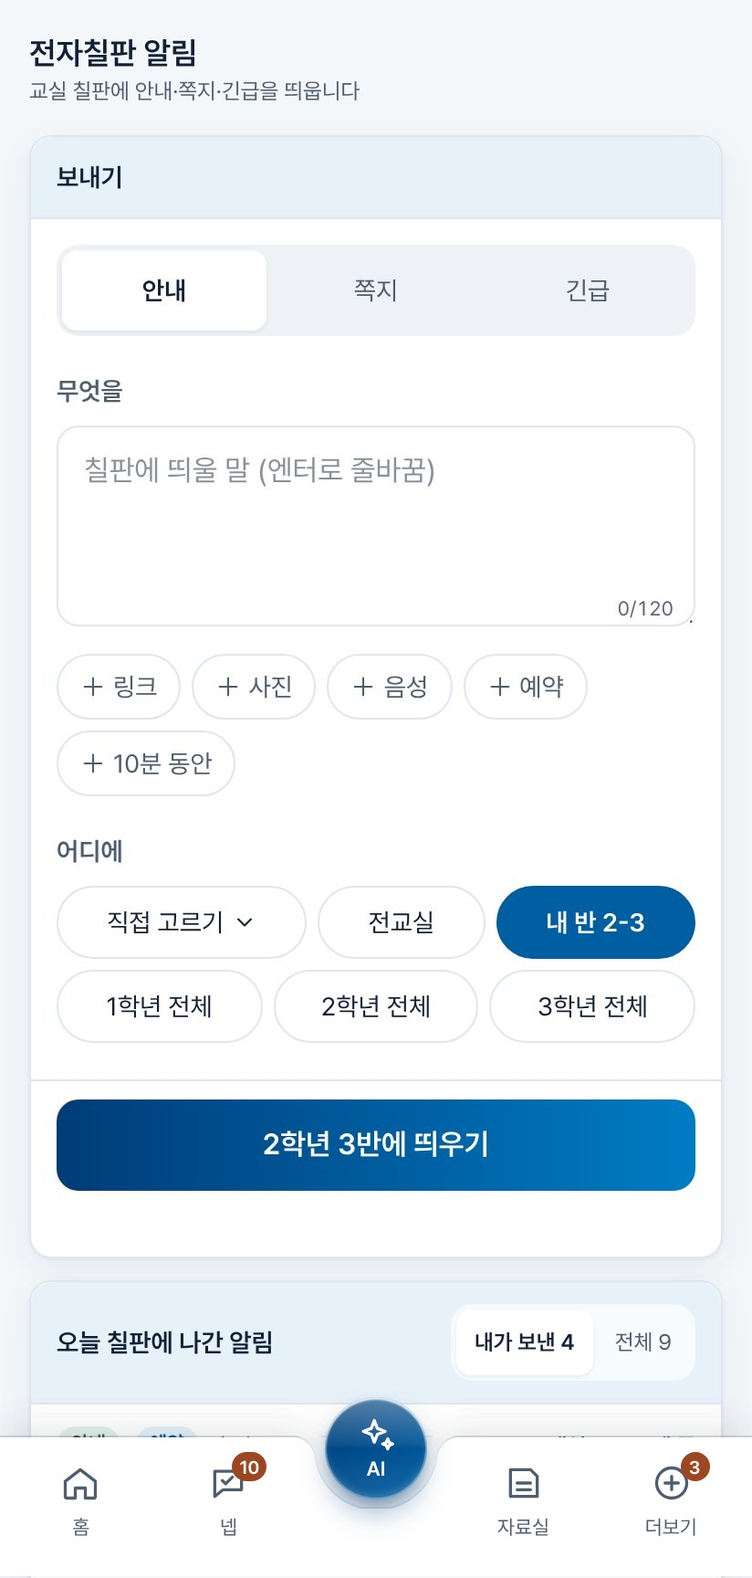
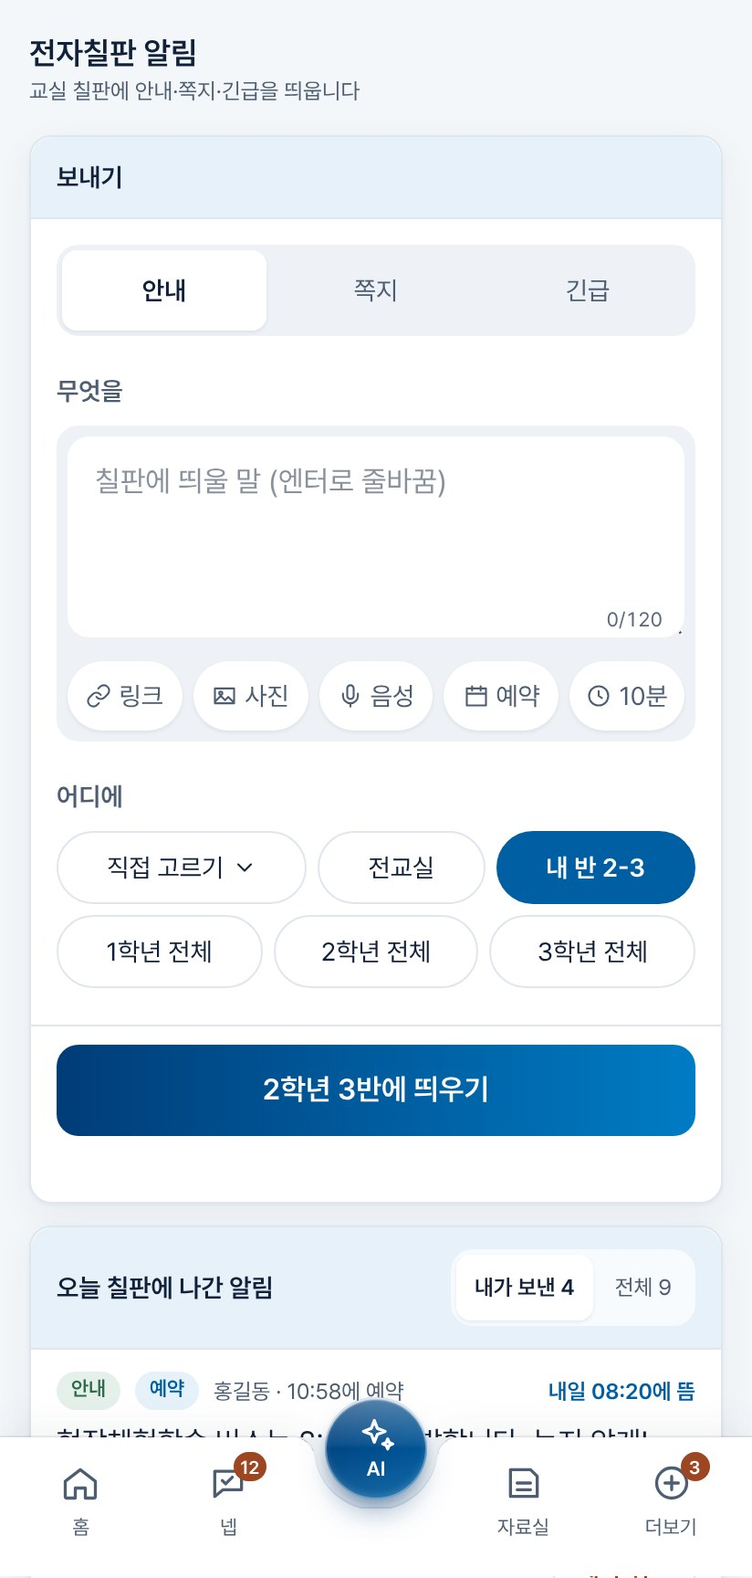
전자칠판 보내기 새 화면(10/31): 「무엇을」 한 줄 단추·예약 오늘·내일
- 칠판 보내기 그림 9장을 새 화면으로 다시 찍음(링크·사진·음성·예약·10분 한 줄)
- 예약 칸 그림(board-schedule) 새로: 오늘·내일 스위치 + 시각, 「예약 없이 지금 띄우기」
- 실습 13·미니 실습 1에 예약 단계, AI로 하면(칠판)의 메뉴 쪽 그림을 예약 칸으로
- 「+ 사진」「+ 음성」 → 「사진」「음성」, NEW 목록과 요즘 새 기능 설명에 10/31

Claude-Session: https://claude.ai/code/session_01PnRkvZMXyWQ3PDuECRmpn5

diff --git a/img/rects.js b/img/rects.js
@@ -1,3 +1,3 @@
 /* 화면마다 동그라미 칠 자리(412×864 기준, 찍을 때 잰 값) — R(화면, 키) */
-window.SHOT_RECTS = {"ai-board": {"button": [31, 446, 162, 40], "card": [16, 286, 380, 213], "head": [31, 297, 177, 20], "question": [73, 68, 323, 98]}, "ai-deep": {"answer": [16, 202, 323, 464], "feedback": [20, 672, 41, 36], "question": [73, 68, 323, 124]}, "ai-deep-ready": {"deep": [72, 588, 211, 34], "file": [16, 499, 380, 38], "input": [72, 634, 268, 72], "plus": [16, 658, 48, 48], "send": [348, 658, 48, 48]}, "ai-form": {"answer": [16, 124, 323, 308], "feedback": [20, 438, 41, 36], "links": [267, 372, 37, 19], "question": [147, 68, 249, 46]}, "ai-home": {"chip_first": [16, 202, 380, 46], "chips": [16, 201, 380, 236], "clear": [333, 12, 71, 44], "greet": [16, 100, 380, 30], "head": [16, 16, 74, 36], "hello": [16, 134, 380, 39], "input": [72, 658, 268, 48], "mic": [348, 658, 48, 48], "notice": [16, 718, 380, 33], "plus": [16, 658, 48, 48], "tab_ai": [166, 792, 81, 44]}, "ai-lesson": {"body": [31, 501, 350, 482], "card": [16, 260, 380, 834], "head": [17, 261, 378, 41], "question": [73, 68, 323, 72]}, "ai-lesson-2": {"body": [31, 48, 350, 482], "button": [31, 560, 111, 40]}, "ai-letter": {"body": [31, 620, 350, 274], "card": [16, 286, 380, 671], "head": [17, 287, 378, 41], "question": [73, 68, 323, 72]}, "ai-letter-2": {"body": [31, 276, 350, 274], "button": [31, 560, 151, 40], "feedback": [20, 619, 41, 36]}, "ai-library": {"answer": [16, 124, 323, 438], "feedback": [20, 568, 41, 36], "links": [65, 450, 37, 19], "question": [133, 68, 263, 46]}, "ai-lost": {"button": [31, 586, 84, 40], "card": [16, 312, 380, 327], "photo": [31, 366, 96, 96], "question": [73, 68, 323, 124]}, "ai-nep": {"button": [31, 726, 84, 40], "card": [16, 286, 380, 493], "edit": [127, 738, 89, 16], "people": [31, 589, 350, 84], "question": [73, 68, 323, 72]}, "ai-number": {"button": [31, 449, 96, 40], "card": [16, 260, 380, 242], "question": [81, 68, 315, 46]}, "ai-parent": {"answer": [16, 150, 323, 386], "feedback": [20, 542, 41, 36], "question": [73, 68, 323, 72]}, "ai-plus": {"attach": [22, 523, 284, 60], "close": [16, 658, 48, 48], "deep": [22, 584, 284, 60], "menu": [16, 517, 296, 133]}, "ai-progress": {"button": [31, 504, 108, 40], "card": [16, 286, 380, 271], "question": [73, 68, 323, 72]}, "ai-recruit": {"button": [31, 546, 68, 40], "card": [16, 312, 380, 287], "question": [73, 68, 323, 72], "reason": [31, 480, 350, 35]}, "ai-repair": {"button": [31, 576, 96, 40], "card": [16, 260, 380, 369], "head": [17, 261, 378, 41], "question": [73, 68, 323, 72]}, "ai-sign": {"button": [31, 705, 175, 40], "card": [16, 286, 380, 472], "people": [31, 544, 350, 151], "question": [73, 68, 323, 72]}, "ai-swap": {"calendar": [31, 364, 75, 14], "card": [16, 312, 380, 703], "question": [73, 68, 323, 72]}, "ai-typed": {"input": [72, 658, 268, 48], "plus": [16, 658, 48, 48], "send": [348, 658, 48, 48]}, "ai-week": {"answer": [16, 124, 323, 308], "feedback": [20, 438, 41, 36], "question": [214, 68, 182, 46]}, "alerts": {}, "alerts-done": {"clear": [316, 379, 80, 44], "summary": [16, 331, 380, 44]}, "board-alert": {"all": [174, 569, 92, 40], "fire": [150, 233, 113, 56], "kind": [266, 137, 112, 44], "offline": [31, 679, 350, 16], "presets": [31, 233, 350, 118], "submit": [31, 701, 350, 50]}, "board-alert-confirm": {"cancel": [16, 804, 136, 44], "go": [160, 804, 236, 44], "sheet": [0, 0, 412, 864], "text": [16, 720, 380, 72], "where": [16, 668, 380, 40]}, "board-grades": {"g1": [31, 531, 113, 40], "g2": [150, 531, 113, 40], "offline": [31, 602, 350, 16], "submit": [31, 624, 350, 50]}, "board-memo": {"body": [31, 233, 350, 110], "kind": [150, 137, 112, 44], "note": [31, 358, 350, 32], "submit": [31, 600, 350, 50]}, "board-photo": {"body": [31, 233, 350, 110], "photoChip": [105, 358, 90, 36], "submit": [31, 701, 350, 50], "thumb": [43, 456, 103, 80]}, "board-pick": {"all": [16, 535, 380, 44], "done": [16, 798, 380, 50], "grid": [16, 591, 380, 94], "legend": [16, 697, 380, 32], "off": [170, 641, 71, 44], "tabs": [16, 481, 380, 42]}, "board-send": {"body": [31, 233, 350, 110], "kinds": [31, 134, 350, 50], "mine": [272, 485, 109, 40], "options": [31, 358, 350, 78], "submit": [31, 602, 350, 50], "what": [31, 204, 350, 21], "where": [31, 456, 350, 115]}, "board-sent": {"done": [31, 528, 90, 22], "end": [31, 408, 50, 36], "live": [82, 381, 34, 16], "liveChip": [31, 378, 96, 22], "over": [31, 677, 88, 22], "reserve": [300, 129, 81, 16], "tabs": [247, 59, 134, 42], "unshown": [126, 733, 100, 22], "waitChip": [31, 185, 69, 22]}, "board-voice-rec": {"status": [43, 336, 326, 92], "stop": [287, 388, 82, 40]}, "calendar": {"grid": [16, 120, 380, 443], "seg": [206, 61, 187, 44], "today": [196, 391, 20, 20]}, "exam-card": {"ends": [31, 178, 350, 161], "head": [31, 87, 152, 20], "slots": [31, 134, 350, 32], "stats": [31, 351, 350, 73]}, "exam-card-pad": {"legend": [31, 150, 350, 16], "n24": [183, 307, 47, 40], "n7": [334, 195, 47, 40], "n9": [82, 239, 47, 40], "names": [31, 403, 350, 113], "stats": [31, 41, 350, 73]}, "exam-card-save": {"names": [31, 292, 350, 113], "note": [31, 470, 350, 48], "save": [31, 550, 350, 50]}, "forms": {"trip": [17, 110, 378, 56]}, "found": {"head": [16, 24, 380, 71]}, "home": {"bell": [360, 16, 44, 44], "changed": [276, 550, 45, 71], "gear": [356, 729, 52, 44], "hero": [16, 96, 380, 61], "hint": [16, 346, 380, 44], "nep": [16, 422, 320, 54], "now": [129, 550, 45, 71], "peek": [16, 168, 380, 120], "pg": [245, 489, 40, 44], "pill": [282, 177, 101, 28], "rail": [352, 406, 60, 380], "sc": [356, 410, 52, 62], "scAll": [356, 538, 52, 62], "tabAi": [166, 792, 81, 44], "tabMore": [327, 792, 81, 61], "tabNep": [85, 792, 81, 61], "tileLesson": [16, 300, 186, 38], "tileSched": [210, 300, 186, 38], "tiles": [16, 300, 380, 38], "tt": [289, 489, 40, 44]}, "home-3": {"cal": [289, 430, 40, 44], "gear": [356, 729, 52, 44], "meal": [31, 291, 24, 20], "rail": [352, 0, 60, 786], "upcoming": [31, 442, 76, 20], "weekly": [245, 430, 40, 44]}, "home-sheet": {"count": [16, 819, 69, 18], "done": [332, 808, 64, 40], "head": [16, 262, 380, 24], "pick": [16, 314, 380, 484], "sheet": [0, 0, 412, 864]}, "home-sports": {"card": [16, 16, 380, 493], "link": [16, 16, 380, 493]}, "library": {"chips": [72, 214, 52, 39], "pinned": [16, 282, 380, 95], "search": [52, 169, 331, 23], "write": [310, 720, 86, 48]}, "library-new": {"kind": [206, 440, 172, 36], "section": [31, 120, 350, 48], "submit": [31, 624, 350, 50], "title": [31, 210, 350, 48]}, "library-post": {"download": [31, 211, 350, 44]}, "library-search": {"result": [16, 282, 380, 95], "search": [52, 169, 331, 23]}, "login": {"go": [58, 554, 296, 50], "name": [58, 299, 296, 48], "pw": [58, 467, 296, 48]}, "lost-date": {"head": [31, 91, 53, 28], "head2": [31, 207, 51, 28], "scene": [16, 76, 380, 680]}, "lost-found": {"add": [126, 679, 161, 54], "box": [16, 76, 380, 680], "item": [184, 368, 81, 81], "note": [16, 756, 380, 43], "returned": [286, 16, 110, 44], "student": [251, 767, 50, 13]}, "lost-found-2": {"add": [126, 643, 161, 54], "note": [16, 720, 380, 43], "student": [251, 731, 50, 13]}, "lost-found-add": {"photo": [16, 154, 380, 212], "place": [16, 558, 380, 73], "submit": [149, 863, 247, 44]}, "lost-found-detail": {"back": [16, 804, 380, 44], "info": [16, 572, 380, 133]}, "lost-kind": {"head": [31, 91, 58, 28], "scene": [16, 76, 380, 680]}, "lost-tilt": {"btn": [280, 89, 103, 34], "scene": [16, 76, 380, 680]}, "meals": {}, "more-2": {"lost": [17, 228, 378, 56], "noti": [17, 524, 378, 56], "sign": [17, 376, 378, 56], "signature": [17, 580, 378, 56]}, "more-tools": {"board": [17, 383, 378, 56], "lost": [17, 643, 378, 56], "tools": [17, 439, 378, 56]}, "more-top": {"avatar": [107, 128, 203, 17]}, "nep-add": {"add": [16, 448, 253, 44]}, "nep-big": {"sheet": [0, 0, 412, 864]}, "nep-board": {"meter": [16, 173, 380, 76], "pending": [16, 261, 380, 21], "remind": [16, 328, 380, 44]}, "nep-board-replies": {"replies": [17, 509, 378, 37]}, "nep-board-submit": {"downloadAll": [275, 420, 121, 44]}, "nep-cal": {"events": [35, 292, 55, 20], "post": [35, 438, 342, 44]}, "nep-compose": {"plus": [16, 808, 44, 44], "send": [312, 808, 84, 44], "text": [16, 85, 380, 144], "to": [53, 52, 49, 25]}, "nep-compose-due": {"chip": [16, 237, 152, 29], "due": [43, 281, 261, 36], "send": [312, 808, 84, 44]}, "nep-event-hide": {"hide": [239, 385, 95, 44]}, "nep-fwd": {"card": [12, 276, 341, 358], "fwd": [307, 281, 39, 36]}, "nep-fwd-org": {"banner": [30, 148, 316, 40], "bar": [284, 702, 104, 41]}, "nep-inbox": {"chip": [341, 457, 51, 21], "me": [0, 128, 412, 68], "recruit": [0, 264, 412, 68], "row": [0, 196, 412, 68], "tabs": [16, 76, 380, 48], "unread": [372, 230, 20, 20]}, "nep-inbox-2": {"over": [332, 725, 60, 21], "park": [0, 623, 412, 68], "parkChip": [332, 657, 60, 21]}, "nep-link": {"ack": [27, 315, 60, 44], "card": [12, 118, 341, 254], "link": [27, 245, 311, 60]}, "nep-me": {"card": [12, 118, 341, 360], "events": [27, 281, 55, 20], "head": [0, 0, 412, 61]}, "nep-me-due": {"chip": [12, 649, 152, 29], "input": [64, 685, 260, 68], "last": [12, 423, 341, 360], "plus": [12, 709, 44, 44], "send": [332, 709, 68, 44]}, "nep-org": {"all": [14, 136, 384, 70], "dept": [15, 382, 382, 45], "deptCheck": [349, 383, 44, 44], "search": [348, 20, 44, 44], "tabInbox": [144, 80, 124, 40], "tabs": [16, 76, 380, 48], "top": [15, 248, 382, 89]}, "nep-org-groups": {"role": [15, 505, 382, 44], "roleCheck": [349, 505, 44, 44], "subj": [15, 417, 382, 45], "subjCheck": [349, 418, 44, 44]}, "nep-org-open": {"card": [15, 120, 382, 270], "check": [349, 256, 44, 44], "head": [349, 121, 44, 44], "me": [35, 352, 310, 32], "name": [35, 262, 310, 32]}, "nep-org-picked": {"bar": [14, 692, 384, 61], "checks": [15, 165, 382, 225], "write": [283, 702, 105, 41]}, "nep-org-search": {"found": [35, 277, 310, 32], "input": [50, 82, 298, 36]}, "nep-photos": {"photos": [12, 260, 288, 289], "save": [308, 387, 36, 36]}, "nep-plus": {"ack": [16, 536, 380, 56], "files": [16, 472, 380, 56], "schedule": [16, 728, 380, 56], "sheet": [0, 0, 412, 864], "submit": [16, 664, 380, 56], "task": [16, 600, 380, 56], "urgent": [16, 792, 380, 56]}, "nep-recruit": {"apply": [27, 628, 72, 44], "card": [12, 502, 341, 182], "duty": [12, 308, 341, 184], "head": [0, 0, 412, 61], "old": [12, 34, 341, 230], "oldState": [27, 159, 127, 44]}, "nep-room": {"bubble": [209, 643, 191, 63], "card": [12, 276, 341, 358], "done": [27, 576, 72, 44], "due": [27, 530, 311, 36], "head": [0, 0, 412, 61], "input": [64, 709, 260, 44], "plus": [12, 709, 44, 44], "send": [332, 709, 68, 44]}, "nep-room-done": {"done": [27, 576, 100, 44]}, "nep-room-menu": {"dots": [360, 10, 40, 40], "item": [241, 59, 158, 44]}, "nep-room-reply": {"input": [64, 808, 260, 44], "last": [12, 397, 341, 129], "mine": [131, 289, 269, 63], "send": [332, 808, 68, 44], "theirs": [12, 118, 341, 162]}, "nep-sent": {"progress": [0, 332, 412, 68], "sched": [0, 128, 412, 68], "tabs": [16, 76, 380, 48]}, "nep-swipe": {"clear": [328, 196, 84, 68], "row": [0, 196, 412, 68]}, "notifications-off": {"nurse": [333, 308, 48, 28], "on": [62, 147, 319, 44]}, "notifications-on": {"nurse": [333, 390, 48, 28], "test": [63, 177, 318, 44]}, "nurse": {"open": [31, 139, 350, 50]}, "password": {"go": [31, 297, 350, 50], "new": [31, 121, 350, 48]}, "pc-noti": {"on": [56, 89, 325, 20], "test": [56, 165, 325, 44], "tray": [56, 121, 325, 32]}, "pg-class": {"chips": [16, 76, 380, 44], "csv": [309, 16, 87, 44]}, "pg-month": {"left": [33, 354, 346, 17], "nav": [16, 205, 380, 40], "row": [16, 396, 380, 118], "streak": [299, 270, 80, 21], "summary": [16, 257, 380, 127], "toggle": [16, 139, 380, 54]}, "pg-month-2": {"legend": [16, 614, 380, 40], "off": [77, 57, 24, 32], "row": [16, 267, 380, 118], "star": [53, 64, 16, 17], "today": [77, 91, 24, 32], "todo": [53, 342, 24, 32]}, "pg-month-pick": {"head": [31, 89, 121, 21], "slot": [17, 300, 378, 29]}, "pg-today": {"card": [16, 229, 380, 142], "date": [68, 139, 216, 44], "map": [206, 80, 187, 44], "save": [309, 703, 87, 44], "segment": [16, 77, 380, 50]}, "pg-today-classes": {"classes": [17, 524, 378, 46], "row": [17, 667, 378, 48]}, "pg-week": {"hint": [16, 605, 380, 17], "list": [16, 139, 380, 54], "nav": [16, 205, 380, 40], "toggle": [16, 139, 380, 54]}, "pg-week-pick": {"head": [31, 400, 120, 21], "row": [17, 142, 378, 72]}, "rain-pe": {"chips": [31, 208, 350, 120], "mine": [17, 132, 378, 32], "note": [16, 707, 380, 48], "slot": [17, 164, 378, 177]}, "record": {"privacy": [16, 42, 253, 16]}, "record-activities": {"activities": [31, 170, 350, 425], "subject": [31, 88, 350, 48]}, "record-input": {"count": [31, 403, 350, 48], "tabs": [16, 90, 380, 50], "upload": [31, 485, 350, 21]}, "record-kinds": {"gwasetuk": [31, 265, 65, 20]}, "record-options": {"generate": [31, 383, 350, 50], "length": [31, 61, 350, 21], "model": [31, 301, 350, 48]}, "record-result": {"basis": [31, 532, 350, 90], "result": [31, 330, 350, 166]}, "sign-file": {"doc": [312, 103, 56, 21], "sign": [31, 181, 252, 48]}, "sign-file-new": {"file": [31, 110, 350, 117], "hint": [31, 192, 350, 35], "title": [31, 271, 350, 48], "who": [31, 335, 350, 23]}, "sign-file-new-bottom": {"me": [31, 667, 350, 21], "next": [31, 705, 350, 44]}, "sign-list": {"file": [30, 89, 157, 26], "meeting": [226, 90, 155, 26], "todo": [16, 166, 380, 23]}, "sign-meeting": {"hand": [295, 141, 71, 17], "roster": [17, 234, 378, 464], "sign": [31, 126, 252, 48]}, "sign-meeting-new": {"chips": [76, 455, 95, 40], "picker": [31, 401, 350, 44], "title": [31, 120, 350, 48], "when": [31, 212, 169, 48]}, "sign-meeting-new-bottom": {"group": [71, 452, 310, 48], "me": [31, 617, 350, 21], "members": [31, 511, 350, 62], "submit": [31, 705, 350, 44]}, "sign-mine": {}, "signature": {"default": [267, 96, 112, 21], "hand": [16, 77, 380, 302], "stamp": [16, 391, 380, 302]}, "signature-draw": {"pad": [17, 567, 378, 224], "save": [338, 804, 58, 44]}, "signature-empty": {"draw": [33, 318, 100, 44], "stamp": [33, 633, 130, 44]}, "sports": {"bracket": [16, 77, 380, 262], "match": [29, 394, 354, 129], "rounds": [98, 352, 50, 32], "score": [116, 176, 17, 14]}, "sub-calc": {"calendar": [31, 466, 350, 21], "date": [31, 316, 169, 44], "go": [31, 501, 350, 44], "periods": [31, 374, 350, 113], "reason": [212, 316, 169, 44], "tabs": [16, 77, 380, 50], "teacher": [31, 229, 350, 44]}, "sub-dates": {"byHand": [278, 520, 71, 17], "dates": [43, 117, 255, 68], "request": [31, 508, 235, 40], "tools": [31, 460, 350, 36]}, "sub-inbox": {"pending": [16, 316, 380, 21], "proxy": [31, 651, 220, 40], "register": [16, 139, 380, 44], "rooms": [16, 243, 380, 65], "tab": [268, 80, 125, 44]}, "sub-requests": {"accept": [31, 611, 185, 40], "byHand": [228, 623, 71, 17], "card": [16, 407, 380, 257], "reject": [307, 611, 56, 40], "tab": [206, 80, 187, 44]}, "sub-result": {"calendar": [31, 120, 350, 42], "date": [43, 317, 279, 40], "firstStep": [31, 264, 350, 23], "plan1": [31, 207, 350, 49]}, "today": {"board": [31, 87, 48, 20], "days": [180, 305, 40, 21], "mynep": [31, 452, 39, 20], "prayer": [17, 120, 378, 42]}, "today-2": {"changes": [17, 321, 378, 45], "events": [31, 94, 64, 20]}, "tt-class": {"picker": [16, 135, 380, 44], "tabs": [16, 77, 380, 50]}, "tt-free": {"name": [31, 395, 60, 40], "rooms": [16, 212, 380, 123], "teachers": [16, 347, 380, 343]}, "tt-free-nep": {}, "tt-my": {"away": [191, 516, 61, 87], "band": [191, 226, 61, 87], "changed": [191, 606, 61, 68], "pending": [322, 317, 61, 68], "picker": [16, 135, 380, 44], "tabs": [16, 77, 380, 50], "today": [191, 389, 61, 68]}, "tt-pop": {"band": [191, 226, 61, 87], "pop": [29, 317, 354, 115]}, "weekly": {"mine": [44, 526, 324, 76], "seg": [206, 171, 187, 44]}};
+window.SHOT_RECTS = {"ai-board": {"button": [31, 446, 162, 40], "card": [16, 286, 380, 213], "head": [31, 297, 177, 20], "question": [73, 68, 323, 98]}, "ai-deep": {"answer": [16, 202, 323, 464], "feedback": [20, 672, 41, 36], "question": [73, 68, 323, 124]}, "ai-deep-ready": {"deep": [72, 588, 211, 34], "file": [16, 499, 380, 38], "input": [72, 634, 268, 72], "plus": [16, 658, 48, 48], "send": [348, 658, 48, 48]}, "ai-form": {"answer": [16, 124, 323, 308], "feedback": [20, 438, 41, 36], "links": [267, 372, 37, 19], "question": [147, 68, 249, 46]}, "ai-home": {"chip_first": [16, 202, 380, 46], "chips": [16, 201, 380, 236], "clear": [333, 12, 71, 44], "greet": [16, 100, 380, 30], "head": [16, 16, 74, 36], "hello": [16, 134, 380, 39], "input": [72, 658, 268, 48], "mic": [348, 658, 48, 48], "notice": [16, 718, 380, 33], "plus": [16, 658, 48, 48], "tab_ai": [166, 792, 81, 44]}, "ai-lesson": {"body": [31, 501, 350, 482], "card": [16, 260, 380, 834], "head": [17, 261, 378, 41], "question": [73, 68, 323, 72]}, "ai-lesson-2": {"body": [31, 48, 350, 482], "button": [31, 560, 111, 40]}, "ai-letter": {"body": [31, 620, 350, 274], "card": [16, 286, 380, 671], "head": [17, 287, 378, 41], "question": [73, 68, 323, 72]}, "ai-letter-2": {"body": [31, 276, 350, 274], "button": [31, 560, 151, 40], "feedback": [20, 619, 41, 36]}, "ai-library": {"answer": [16, 124, 323, 438], "feedback": [20, 568, 41, 36], "links": [65, 450, 37, 19], "question": [133, 68, 263, 46]}, "ai-lost": {"button": [31, 586, 84, 40], "card": [16, 312, 380, 327], "photo": [31, 366, 96, 96], "question": [73, 68, 323, 124]}, "ai-nep": {"button": [31, 726, 84, 40], "card": [16, 286, 380, 493], "edit": [127, 738, 89, 16], "people": [31, 589, 350, 84], "question": [73, 68, 323, 72]}, "ai-number": {"button": [31, 449, 96, 40], "card": [16, 260, 380, 242], "question": [81, 68, 315, 46]}, "ai-parent": {"answer": [16, 150, 323, 386], "feedback": [20, 542, 41, 36], "question": [73, 68, 323, 72]}, "ai-plus": {"attach": [22, 523, 284, 60], "close": [16, 658, 48, 48], "deep": [22, 584, 284, 60], "menu": [16, 517, 296, 133]}, "ai-progress": {"button": [31, 504, 108, 40], "card": [16, 286, 380, 271], "question": [73, 68, 323, 72]}, "ai-recruit": {"button": [31, 546, 68, 40], "card": [16, 312, 380, 287], "question": [73, 68, 323, 72], "reason": [31, 480, 350, 35]}, "ai-repair": {"button": [31, 576, 96, 40], "card": [16, 260, 380, 369], "head": [17, 261, 378, 41], "question": [73, 68, 323, 72]}, "ai-sign": {"button": [31, 705, 175, 40], "card": [16, 286, 380, 472], "people": [31, 544, 350, 151], "question": [73, 68, 323, 72]}, "ai-swap": {"calendar": [31, 364, 75, 14], "card": [16, 312, 380, 703], "question": [73, 68, 323, 72]}, "ai-typed": {"input": [72, 658, 268, 48], "plus": [16, 658, 48, 48], "send": [348, 658, 48, 48]}, "ai-week": {"answer": [16, 124, 323, 308], "feedback": [20, 438, 41, 36], "question": [214, 68, 182, 46]}, "alerts": {}, "alerts-done": {"clear": [316, 379, 80, 44], "summary": [16, 331, 380, 44]}, "board-alert": {"all": [174, 581, 92, 40], "fire": [150, 233, 113, 56], "kind": [266, 137, 112, 44], "offline": [31, 679, 350, 16], "presets": [31, 233, 350, 118], "submit": [31, 701, 350, 50]}, "board-alert-confirm": {"cancel": [16, 804, 136, 44], "go": [160, 804, 236, 44], "sheet": [0, 0, 412, 864], "text": [16, 720, 380, 72], "where": [16, 668, 380, 40]}, "board-grades": {"g1": [31, 501, 113, 40], "g2": [150, 501, 113, 40], "offline": [31, 572, 350, 16], "submit": [31, 594, 350, 50]}, "board-memo": {"body": [37, 239, 338, 110], "kind": [150, 137, 112, 44], "note": [31, 414, 350, 32], "submit": [31, 612, 350, 50]}, "board-photo": {"body": [37, 239, 338, 110], "photoChip": [106, 362, 63, 38], "submit": [31, 701, 350, 50], "thumb": [45, 410, 102, 80]}, "board-pick": {"all": [16, 535, 380, 44], "done": [16, 798, 380, 50], "grid": [16, 591, 380, 94], "legend": [16, 697, 380, 32], "off": [170, 641, 71, 44], "tabs": [16, 481, 380, 42]}, "board-schedule": {"at": [161, 410, 206, 40], "day": [45, 410, 110, 40], "drop": [265, 458, 102, 32], "line": [45, 466, 163, 16], "submit": [31, 670, 350, 50], "timeChip": [243, 362, 63, 38]}, "board-send": {"body": [37, 239, 338, 110], "kinds": [31, 134, 350, 50], "mine": [272, 455, 109, 40], "options": [37, 362, 338, 38], "submit": [31, 572, 350, 50], "what": [31, 204, 350, 21], "where": [31, 426, 350, 115]}, "board-sent": {"done": [31, 528, 90, 22], "end": [31, 408, 50, 36], "live": [82, 381, 34, 16], "liveChip": [31, 378, 96, 22], "over": [31, 677, 88, 22], "reserve": [300, 129, 81, 16], "tabs": [247, 59, 134, 42], "unshown": [126, 733, 100, 22], "waitChip": [31, 185, 69, 22]}, "board-voice-rec": {"status": [45, 290, 322, 92], "stop": [285, 342, 82, 40]}, "calendar": {"grid": [16, 120, 380, 443], "seg": [206, 61, 187, 44], "today": [196, 391, 20, 20]}, "exam-card": {"ends": [31, 178, 350, 161], "head": [31, 87, 152, 20], "slots": [31, 134, 350, 32], "stats": [31, 351, 350, 73]}, "exam-card-pad": {"legend": [31, 150, 350, 16], "n24": [183, 307, 47, 40], "n7": [334, 195, 47, 40], "n9": [82, 239, 47, 40], "names": [31, 403, 350, 113], "stats": [31, 41, 350, 73]}, "exam-card-save": {"names": [31, 292, 350, 113], "note": [31, 470, 350, 48], "save": [31, 550, 350, 50]}, "forms": {"trip": [17, 110, 378, 56]}, "found": {"head": [16, 24, 380, 71]}, "home": {"bell": [360, 16, 44, 44], "changed": [276, 550, 45, 71], "gear": [356, 729, 52, 44], "hero": [16, 96, 380, 61], "hint": [16, 346, 380, 44], "nep": [16, 422, 320, 54], "now": [129, 550, 45, 71], "peek": [16, 168, 380, 120], "pg": [245, 489, 40, 44], "pill": [282, 177, 101, 28], "rail": [352, 406, 60, 380], "sc": [356, 410, 52, 62], "scAll": [356, 538, 52, 62], "tabAi": [166, 792, 81, 44], "tabMore": [327, 792, 81, 61], "tabNep": [85, 792, 81, 61], "tileLesson": [16, 300, 186, 38], "tileSched": [210, 300, 186, 38], "tiles": [16, 300, 380, 38], "tt": [289, 489, 40, 44]}, "home-3": {"cal": [289, 430, 40, 44], "gear": [356, 729, 52, 44], "meal": [31, 291, 24, 20], "rail": [352, 0, 60, 786], "upcoming": [31, 442, 76, 20], "weekly": [245, 430, 40, 44]}, "home-sheet": {"count": [16, 819, 69, 18], "done": [332, 808, 64, 40], "head": [16, 262, 380, 24], "pick": [16, 314, 380, 484], "sheet": [0, 0, 412, 864]}, "home-sports": {"card": [16, 16, 380, 493], "link": [16, 16, 380, 493]}, "library": {"chips": [72, 214, 52, 39], "pinned": [16, 282, 380, 95], "search": [52, 169, 331, 23], "write": [310, 720, 86, 48]}, "library-new": {"kind": [206, 440, 172, 36], "section": [31, 120, 350, 48], "submit": [31, 624, 350, 50], "title": [31, 210, 350, 48]}, "library-post": {"download": [31, 211, 350, 44]}, "library-search": {"result": [16, 282, 380, 95], "search": [52, 169, 331, 23]}, "login": {"go": [58, 554, 296, 50], "name": [58, 299, 296, 48], "pw": [58, 467, 296, 48]}, "lost-date": {"head": [31, 91, 53, 28], "head2": [31, 207, 51, 28], "scene": [16, 76, 380, 680]}, "lost-found": {"add": [126, 679, 161, 54], "box": [16, 76, 380, 680], "item": [184, 368, 81, 81], "note": [16, 756, 380, 43], "returned": [286, 16, 110, 44], "student": [251, 767, 50, 13]}, "lost-found-2": {"add": [126, 643, 161, 54], "note": [16, 720, 380, 43], "student": [251, 731, 50, 13]}, "lost-found-add": {"photo": [16, 154, 380, 212], "place": [16, 558, 380, 73], "submit": [149, 863, 247, 44]}, "lost-found-detail": {"back": [16, 804, 380, 44], "info": [16, 572, 380, 133]}, "lost-kind": {"head": [31, 91, 58, 28], "scene": [16, 76, 380, 680]}, "lost-tilt": {"btn": [280, 89, 103, 34], "scene": [16, 76, 380, 680]}, "meals": {}, "more-2": {"lost": [17, 228, 378, 56], "noti": [17, 524, 378, 56], "sign": [17, 376, 378, 56], "signature": [17, 580, 378, 56]}, "more-tools": {"board": [17, 383, 378, 56], "lost": [17, 643, 378, 56], "tools": [17, 439, 378, 56]}, "more-top": {"avatar": [107, 128, 203, 17]}, "nep-add": {"add": [16, 448, 253, 44]}, "nep-big": {"sheet": [0, 0, 412, 864]}, "nep-board": {"meter": [16, 173, 380, 76], "pending": [16, 261, 380, 21], "remind": [16, 328, 380, 44]}, "nep-board-replies": {"replies": [17, 509, 378, 37]}, "nep-board-submit": {"downloadAll": [275, 420, 121, 44]}, "nep-cal": {"events": [35, 292, 55, 20], "post": [35, 438, 342, 44]}, "nep-compose": {"plus": [16, 808, 44, 44], "send": [312, 808, 84, 44], "text": [16, 85, 380, 144], "to": [53, 52, 49, 25]}, "nep-compose-due": {"chip": [16, 237, 152, 29], "due": [43, 281, 261, 36], "send": [312, 808, 84, 44]}, "nep-event-hide": {"hide": [239, 385, 95, 44]}, "nep-fwd": {"card": [12, 276, 341, 358], "fwd": [307, 281, 39, 36]}, "nep-fwd-org": {"banner": [30, 148, 316, 40], "bar": [284, 702, 104, 41]}, "nep-inbox": {"chip": [341, 457, 51, 21], "me": [0, 128, 412, 68], "recruit": [0, 264, 412, 68], "row": [0, 196, 412, 68], "tabs": [16, 76, 380, 48], "unread": [372, 230, 20, 20]}, "nep-inbox-2": {"over": [332, 725, 60, 21], "park": [0, 623, 412, 68], "parkChip": [332, 657, 60, 21]}, "nep-link": {"ack": [27, 315, 60, 44], "card": [12, 118, 341, 254], "link": [27, 245, 311, 60]}, "nep-me": {"card": [12, 118, 341, 360], "events": [27, 281, 55, 20], "head": [0, 0, 412, 61]}, "nep-me-due": {"chip": [12, 649, 152, 29], "input": [64, 685, 260, 68], "last": [12, 423, 341, 360], "plus": [12, 709, 44, 44], "send": [332, 709, 68, 44]}, "nep-org": {"all": [14, 136, 384, 70], "dept": [15, 382, 382, 45], "deptCheck": [349, 383, 44, 44], "search": [348, 20, 44, 44], "tabInbox": [144, 80, 124, 40], "tabs": [16, 76, 380, 48], "top": [15, 248, 382, 89]}, "nep-org-groups": {"role": [15, 505, 382, 44], "roleCheck": [349, 505, 44, 44], "subj": [15, 417, 382, 45], "subjCheck": [349, 418, 44, 44]}, "nep-org-open": {"card": [15, 120, 382, 270], "check": [349, 256, 44, 44], "head": [349, 121, 44, 44], "me": [35, 352, 310, 32], "name": [35, 262, 310, 32]}, "nep-org-picked": {"bar": [14, 692, 384, 61], "checks": [15, 165, 382, 225], "write": [283, 702, 105, 41]}, "nep-org-search": {"found": [35, 277, 310, 32], "input": [50, 82, 298, 36]}, "nep-photos": {"photos": [12, 260, 288, 289], "save": [308, 387, 36, 36]}, "nep-plus": {"ack": [16, 536, 380, 56], "files": [16, 472, 380, 56], "schedule": [16, 728, 380, 56], "sheet": [0, 0, 412, 864], "submit": [16, 664, 380, 56], "task": [16, 600, 380, 56], "urgent": [16, 792, 380, 56]}, "nep-recruit": {"apply": [27, 628, 72, 44], "card": [12, 502, 341, 182], "duty": [12, 308, 341, 184], "head": [0, 0, 412, 61], "old": [12, 34, 341, 230], "oldState": [27, 159, 127, 44]}, "nep-room": {"bubble": [209, 643, 191, 63], "card": [12, 276, 341, 358], "done": [27, 576, 72, 44], "due": [27, 530, 311, 36], "head": [0, 0, 412, 61], "input": [64, 709, 260, 44], "plus": [12, 709, 44, 44], "send": [332, 709, 68, 44]}, "nep-room-done": {"done": [27, 576, 100, 44]}, "nep-room-menu": {"dots": [360, 10, 40, 40], "item": [241, 59, 158, 44]}, "nep-room-reply": {"input": [64, 808, 260, 44], "last": [12, 397, 341, 129], "mine": [131, 289, 269, 63], "send": [332, 808, 68, 44], "theirs": [12, 118, 341, 162]}, "nep-sent": {"progress": [0, 332, 412, 68], "sched": [0, 128, 412, 68], "tabs": [16, 76, 380, 48]}, "nep-swipe": {"clear": [328, 196, 84, 68], "row": [0, 196, 412, 68]}, "notifications-off": {"nurse": [333, 308, 48, 28], "on": [62, 147, 319, 44]}, "notifications-on": {"nurse": [333, 390, 48, 28], "test": [63, 177, 318, 44]}, "nurse": {"open": [31, 139, 350, 50]}, "password": {"go": [31, 297, 350, 50], "new": [31, 121, 350, 48]}, "pc-noti": {"on": [56, 89, 325, 20], "test": [56, 165, 325, 44], "tray": [56, 121, 325, 32]}, "pg-class": {"chips": [16, 76, 380, 44], "csv": [309, 16, 87, 44]}, "pg-month": {"left": [33, 354, 346, 17], "nav": [16, 205, 380, 40], "row": [16, 396, 380, 118], "streak": [299, 270, 80, 21], "summary": [16, 257, 380, 127], "toggle": [16, 139, 380, 54]}, "pg-month-2": {"legend": [16, 614, 380, 40], "off": [77, 57, 24, 32], "row": [16, 267, 380, 118], "star": [53, 64, 16, 17], "today": [77, 91, 24, 32], "todo": [53, 342, 24, 32]}, "pg-month-pick": {"head": [31, 89, 121, 21], "slot": [17, 300, 378, 29]}, "pg-today": {"card": [16, 229, 380, 142], "date": [68, 139, 216, 44], "map": [206, 80, 187, 44], "save": [309, 703, 87, 44], "segment": [16, 77, 380, 50]}, "pg-today-classes": {"classes": [17, 524, 378, 46], "row": [17, 667, 378, 48]}, "pg-week": {"hint": [16, 605, 380, 17], "list": [16, 139, 380, 54], "nav": [16, 205, 380, 40], "toggle": [16, 139, 380, 54]}, "pg-week-pick": {"head": [31, 400, 120, 21], "row": [17, 142, 378, 72]}, "rain-pe": {"chips": [31, 208, 350, 120], "mine": [17, 132, 378, 32], "note": [16, 707, 380, 48], "slot": [17, 164, 378, 177]}, "record": {"privacy": [16, 42, 253, 16]}, "record-activities": {"activities": [31, 170, 350, 425], "subject": [31, 88, 350, 48]}, "record-input": {"count": [31, 403, 350, 48], "tabs": [16, 90, 380, 50], "upload": [31, 485, 350, 21]}, "record-kinds": {"gwasetuk": [31, 265, 65, 20]}, "record-options": {"generate": [31, 383, 350, 50], "length": [31, 61, 350, 21], "model": [31, 301, 350, 48]}, "record-result": {"basis": [31, 532, 350, 90], "result": [31, 330, 350, 166]}, "sign-file": {"doc": [312, 103, 56, 21], "sign": [31, 181, 252, 48]}, "sign-file-new": {"file": [31, 110, 350, 117], "hint": [31, 192, 350, 35], "title": [31, 271, 350, 48], "who": [31, 335, 350, 23]}, "sign-file-new-bottom": {"me": [31, 667, 350, 21], "next": [31, 705, 350, 44]}, "sign-list": {"file": [30, 89, 157, 26], "meeting": [226, 90, 155, 26], "todo": [16, 166, 380, 23]}, "sign-meeting": {"hand": [295, 141, 71, 17], "roster": [17, 234, 378, 464], "sign": [31, 126, 252, 48]}, "sign-meeting-new": {"chips": [76, 455, 95, 40], "picker": [31, 401, 350, 44], "title": [31, 120, 350, 48], "when": [31, 212, 169, 48]}, "sign-meeting-new-bottom": {"group": [71, 452, 310, 48], "me": [31, 617, 350, 21], "members": [31, 511, 350, 62], "submit": [31, 705, 350, 44]}, "sign-mine": {}, "signature": {"default": [267, 96, 112, 21], "hand": [16, 77, 380, 302], "stamp": [16, 391, 380, 302]}, "signature-draw": {"pad": [17, 567, 378, 224], "save": [338, 804, 58, 44]}, "signature-empty": {"draw": [33, 318, 100, 44], "stamp": [33, 633, 130, 44]}, "sports": {"bracket": [16, 77, 380, 262], "match": [29, 394, 354, 129], "rounds": [98, 352, 50, 32], "score": [116, 176, 17, 14]}, "sub-calc": {"calendar": [31, 466, 350, 21], "date": [31, 316, 169, 44], "go": [31, 501, 350, 44], "periods": [31, 374, 350, 113], "reason": [212, 316, 169, 44], "tabs": [16, 77, 380, 50], "teacher": [31, 229, 350, 44]}, "sub-dates": {"byHand": [278, 520, 71, 17], "dates": [43, 117, 255, 68], "request": [31, 508, 235, 40], "tools": [31, 460, 350, 36]}, "sub-inbox": {"pending": [16, 316, 380, 21], "proxy": [31, 651, 220, 40], "register": [16, 139, 380, 44], "rooms": [16, 243, 380, 65], "tab": [268, 80, 125, 44]}, "sub-requests": {"accept": [31, 611, 185, 40], "byHand": [228, 623, 71, 17], "card": [16, 407, 380, 257], "reject": [307, 611, 56, 40], "tab": [206, 80, 187, 44]}, "sub-result": {"calendar": [31, 120, 350, 42], "date": [43, 317, 279, 40], "firstStep": [31, 264, 350, 23], "plan1": [31, 207, 350, 49]}, "today": {"board": [31, 87, 48, 20], "days": [180, 305, 40, 21], "mynep": [31, 452, 39, 20], "prayer": [17, 120, 378, 42]}, "today-2": {"changes": [17, 321, 378, 45], "events": [31, 94, 64, 20]}, "tt-class": {"picker": [16, 135, 380, 44], "tabs": [16, 77, 380, 50]}, "tt-free": {"name": [31, 395, 60, 40], "rooms": [16, 212, 380, 123], "teachers": [16, 347, 380, 343]}, "tt-free-nep": {}, "tt-my": {"away": [191, 516, 61, 87], "band": [191, 226, 61, 87], "changed": [191, 606, 61, 68], "pending": [322, 317, 61, 68], "picker": [16, 135, 380, 44], "tabs": [16, 77, 380, 50], "today": [191, 389, 61, 68]}, "tt-pop": {"band": [191, 226, 61, 87], "pop": [29, 317, 354, 115]}, "weekly": {"mine": [44, 526, 324, 76], "seg": [206, 171, 187, 44]}};
 window.R = function (s, k) { var a = (window.SHOT_RECTS[s] || {})[k]; if (!a) { if (window.console) console.warn('rect 없음', s, k); return null; } return a; };

diff --git a/scenes.js b/scenes.js
@@ -671,7 +671,7 @@
   ];
   D.add({
     id: "whatsnew", part: 0, label: "요즘 새 기능", kind: "light", min: 1.2, isNew: true,
-    notes: "10월 넷째·다섯째 주(10/21~10/31)에 바뀐 것입니다. 가장 큰 것은 <b>홈</b>입니다 — 위쪽 파란 띠에 <b>빼꼼 판</b>과 <b>내 수업 · 내 일정</b> 두 칸이 생겼고(10/28), 카드 오른쪽 <b>남색 기둥</b>에 자주 쓰는 도구를 톱니로 최대 6개 골라 둡니다(10/30). 일정 맨 위 <b>월간 | 주간소식</b>에서 주간소식을 요일 카드로 보고, <b>원본 보기</b>로 늘 보던 인쇄물 그대로 봅니다. 빼꼼 알림판 첫 줄은 <b>금주의 기도제목</b>입니다. AI 도우미 이름은 <b>AI 해죠</b>가 되었고 마이크로 말하면 1초 뒤 저절로 보냅니다. 넵은 사진이 카톡처럼 크게 보이고, 받은 넵을 전달하거나 빠뜨린 분을 더할 수 있습니다. 학교가 보내는 자동 안내는 종 그림 <b>띵동</b>으로 옵니다. 수업 교체에는 <b>반 바꾸기</b>가 생겼고, 분실물 함은 폰을 흔들면 정리됩니다. 나머지는 각 부에서 직접 봅니다. 왼쪽 위 표시를 가리키며 “뒤에서 직접 봅니다” 정도로 짧게 넘깁니다.",
+    notes: "10월 넷째·다섯째 주(10/21~10/31)에 바뀐 것입니다. 가장 큰 것은 <b>홈</b>입니다 — 위쪽 파란 띠에 <b>빼꼼 판</b>과 <b>내 수업 · 내 일정</b> 두 칸이 생겼고(10/28), 카드 오른쪽 <b>남색 기둥</b>에 자주 쓰는 도구를 톱니로 최대 6개 골라 둡니다(10/30). 전자칠판 보내기는 글 칸 아래 한 줄에 링크 · 사진 · 음성 · 예약 · 10분 단추가 생겼고, 예약은 오늘 · 내일과 시각만 고르면 됩니다(10/31). 일정 맨 위 <b>월간 | 주간소식</b>에서 주간소식을 요일 카드로 보고, <b>원본 보기</b>로 늘 보던 인쇄물 그대로 봅니다. 빼꼼 알림판 첫 줄은 <b>금주의 기도제목</b>입니다. AI 도우미 이름은 <b>AI 해죠</b>가 되었고 마이크로 말하면 1초 뒤 저절로 보냅니다. 넵은 사진이 카톡처럼 크게 보이고, 받은 넵을 전달하거나 빠뜨린 분을 더할 수 있습니다. 학교가 보내는 자동 안내는 종 그림 <b>띵동</b>으로 옵니다. 수업 교체에는 <b>반 바꾸기</b>가 생겼고, 분실물 함은 폰을 흔들면 정리됩니다. 나머지는 각 부에서 직접 봅니다. 왼쪽 위 표시를 가리키며 “뒤에서 직접 봅니다” 정도로 짧게 넘깁니다.",
     html: '<div class="chiprow"><span class="chip new">NEW</span><span class="chip ghost">10월 21일 ~ 31일</span></div><h2 class="title">요즘 <em>새로 바뀐</em> 여덟 가지</h2>' +
       '<div class="abs nf">' + NEWF.map(function (f) { return '<div class="card c"><span class="where">' + f[0] + "</span><h3>" + f[1] + "</h3><p>" + f[2] + "</p></div>"; }).join("") + "</div>",
     build: function (el, A) {
@@ -1597,15 +1597,15 @@
     chips: [{ t: "실습 13 · 전자칠판" }, { t: "보내지는 않아요", c: "ghost" }], title: "무엇을 → 어디에 → <em>보내기</em>",
     steps: [
       { t: '더보기 → <span class="k">전자칠판 알림</span>: <span class="q">안내 · 쪽지 · 긴급</span>', s: 0, r: R("board-send", "kinds") },
-      { t: '<b>무엇을</b>: 글, + 링크 · 사진 · <b>음성</b> · 예약 · 띄울 시간', s: 0, r: R("board-send", "options") },
-      { t: '<b>어디에</b>: 담임은 <span class="q">「내 반」</span>이 기본', s: 0, r: R("board-send", "mine"), z: 1.9 },
-      { t: '학년 전체는 <b>여러 학년 함께</b> 눌러집니다 <span class="nw">NEW</span>', s: 1, r: R("board-grades", "g2"), newf: true, z: 1.9 },
-      { t: '<span class="k">직접 고르기</span>: 초록불은 지금 켜진 칠판', s: 2, r: R("board-pick", "grid") },
-      { t: '보낸 뒤 <span class="q">「오늘 칠판에 나간 알림」</span>: 게시 중·확인완료·송출마감', s: 3, r: R("board-sent", "live"), z: 1.9 }
+      { t: '<b>무엇을</b>: 글 칸 아래 한 줄 — 링크 · 사진 · <b>음성</b> · 예약 · 10분 <span class="nw">NEW</span>', s: 0, r: R("board-send", "options"), newf: true },
+      { t: '<span class="k">예약</span>: <span class="q">오늘 · 내일</span>과 시각만, 단추가 <span class="q">「내일 08:20에 … 예약하기」</span>로', s: 1, r: R("board-schedule", "day"), z: 1.9 },
+      { t: '<b>어디에</b>: 담임은 <span class="q">「내 반」</span>이 기본, 학년 전체는 <b>여러 학년 함께</b>', s: 2, r: R("board-grades", "g2"), z: 1.9 },
+      { t: '<span class="k">직접 고르기</span>: 초록불은 지금 켜진 칠판', s: 3, r: R("board-pick", "grid") },
+      { t: '보낸 뒤 <span class="q">「오늘 칠판에 나간 알림」</span>: 게시 중·확인완료·송출마감', s: 4, r: R("board-sent", "live"), z: 1.9 }
     ],
     note: { tone: "warn", html: "<span>오늘은 <b>보내기 단추를 누르지 않습니다</b>. 누르면 실제 교실 칠판에 뜹니다.</span>" },
-    screens: [shot("board-send"), shot("board-grades"), shot("board-pick"), shot("board-sent")],
-    notes: "보내기 화면은 <b>무엇을 → 어디에 → 보내기</b> 순서입니다. 담임 선생님은 「내 반」이 기본으로 골라져 있고, 보내기 단추에 「2학년 3반에 띄우기」처럼 어디로 가는지가 적힙니다. 학년 전체는 <b>여러 학년을 함께</b> 고를 수 있고, 직접 고르기 창에서는 초록불로 지금 켜진 칠판이 보입니다. 보낸 뒤에는 교실마다 한 단어로 보입니다 — <b>게시 중</b>(지금 떠 있음, 초록불 깜빡), <b>확인완료</b>(교실에서 칠판 알림을 누름), <b>송출마감</b>(회색 칩 — 떴다가 시간이 끝나거나 [종료], 누른 사람은 없음), <b>미표시종료</b>(주황 칩 — 칠판이 꺼져 있어 한 번도 못 띄움, 그 반엔 따로 전하기), <b>표시 대기중</b>(지금 꺼져 있어 켜지면 뜸)."
+    screens: [shot("board-send"), shot("board-schedule"), shot("board-grades"), shot("board-pick"), shot("board-sent")],
+    notes: "보내기 화면은 <b>무엇을 → 어디에 → 보내기</b> 순서입니다. 「무엇을」은 글 칸 아래 한 줄에 <b>링크 · 사진 · 음성 · 예약 · 10분</b>(띄울 시간) 단추가 있고, 넣으면 「✓ 사진 1」 「✓ 08:20」처럼 짧게 바뀝니다(10월 31일). <b>예약</b>을 누르면 다음 10분 눈금이 채워져 있어 <b>오늘 · 내일</b>과 시각만 고르면 되고, 아래에 「내일 08:20부터 10분 동안 뜹니다」, 마음이 바뀌면 「예약 없이 지금 띄우기」. 담임 선생님은 「내 반」이 기본으로 골라져 있고, 보내기 단추에 「2학년 3반에 띄우기」처럼 어디로 가는지가 적힙니다. 학년 전체는 <b>여러 학년을 함께</b> 고를 수 있고, 직접 고르기 창에서는 초록불로 지금 켜진 칠판이 보입니다. 보낸 뒤에는 교실마다 한 단어로 보입니다 — <b>게시 중</b>(지금 떠 있음, 초록불 깜빡), <b>확인완료</b>(교실에서 칠판 알림을 누름), <b>송출마감</b>(회색 칩 — 떴다가 시간이 끝나거나 [종료], 누른 사람은 없음), <b>미표시종료</b>(주황 칩 — 칠판이 꺼져 있어 한 번도 못 띄움, 그 반엔 따로 전하기), <b>표시 대기중</b>(지금 꺼져 있어 켜지면 뜸)."
   });
 
   practice({
@@ -1615,7 +1615,7 @@
       { t: '<span class="k">쪽지</span>: 60자, 칠판 오른쪽 위 노란 쪽지(띵 한 번)', s: 0, r: R("board-memo", "body") },
       { t: '<span class="k">긴급</span>: 지진·화재·전시 대피·외부인 침입·교실 대기 문구', s: 1, r: R("board-alert", "presets") },
       { t: '보내기 전 <b>확인 창</b>: 몇 곳에 뜨는지, 꺼진 칠판은 몇 곳인지', s: 2, r: R("board-alert-confirm", "where"), warn: "긴급은 경보음과 함께 바로 뜹니다" },
-      { t: '<span class="k">+ 음성</span>: 30초까지 녹음, 칠판에서 두 번 울립니다 <span class="nw">NEW</span>', s: 3, r: R("board-voice-rec", "status"), newf: true }
+      { t: '<span class="k">음성</span>: 30초까지 녹음, 칠판에서 두 번 울립니다 <span class="nw">NEW</span>', s: 3, r: R("board-voice-rec", "status"), newf: true }
     ],
     gnote: { html: "<span>음성 파일은 하루 뒤 지워집니다(목소리도 개인정보). 교실 컴퓨터 스피커가 꺼져 있을 수 있으니 중요한 내용은 글로도 적어 주세요. 관리자는 안내를 <b>「공지사항」</b> 이름으로 보낼 수 있습니다. 아침 8시 45분 「오늘 바뀐 수업」 쪽지(수업이 바뀐 반 칠판에 저절로, 교실은 「1학년 3반 교실」처럼)는 글로만 붙습니다 — 10월 25일에 만든 「소리 내어 읽기」는 협의할 때까지 쉽니다. 시험 날 자동 쪽지는 「띵」 소리도 없이 조용히 붙습니다. 칠판 왼쪽 아래 <b>[분실물 함]</b>은 물건이 많으면 한 화면씩 5초마다 넘어가고(10월 23일), 칠판 시계는 교실 PC 시계가 틀려도 <b>학교 서버 시각</b>을 따릅니다(10월 28일).</span>" },
     screens: [shot("board-memo"), shot("board-alert"), shot("board-alert-confirm"), shot("board-voice-rec")],
@@ -1719,13 +1719,13 @@
     menu: "더보기 → 전자칠판 알림 → 글 · 예약 · 어디에",
     say: "2학년 전체 칠판에 내일 아침 8시 20분에 ~ 띄워 줘",
     steps: [
-      { t: '메뉴로는 <span class="k">전자칠판 알림</span>에서 글 · 예약 · 어디에를 고르기', s: 0, r: R("board-send", "where") },
+      { t: '메뉴로는 <span class="k">전자칠판 알림</span>에서 글 · 예약(오늘·내일·시각) · 어디에를 고르기', s: 0, r: R("board-schedule", "day") },
       { t: 'AI에게 <span class="q">「2학년 전체 칠판에 내일 아침 8시 20분에 ~ 띄워 줘」</span>', s: 1, r: R("ai-board", "question") },
       { t: '카드 맨 위에 <b>곳</b>(2학년 전체 10곳), 아래 <b>글 · 시각 · 유지 시간</b>', s: 1, r: R("ai-board", "card") },
       { t: '확인하고 <span class="k">내일 08:20에 예약하기</span> — 누를 때 나가요', s: 1, r: R("ai-board", "button"), z: 1.9 },
       { t: '<span class="q">「2-3반 칠판에 쪽지」</span> <span class="q">「과학실 칠판에 ~」</span>도, 긴급은 한 번 더 물어요', s: 1 }
     ],
-    screens: [shot("board-send"), shot("ai-board")],
+    screens: [shot("board-schedule"), shot("ai-board")],
     notes: "칠판 알림도 AI에게 말로 할 수 있습니다(10월 20일 새로). 「2학년 전체 칠판에 내일 아침 8시 20분에 현장체험학습 버스는 8:40에 출발합니다, 늦지 않게! 띄워 줘」라고 하면, 곳(2학년 전체 10곳)·글·시각·유지 시간을 채운 <b>전자칠판 카드</b>가 뜹니다. 확인하고 <b>「내일 08:20에 예약하기」</b>를 눌러야 나갑니다 — 보내기 화면과 똑같이 보내집니다. 「2-3반 칠판에 쪽지」, 「과학실 칠판에 내일 8시 40분에 ~」, 「전교실 긴급 ~」도 됩니다. 곳을 말하지 않으면 AI가 되묻고, 긴급은 누를 때 한 번 더 확인합니다."
   });
 

diff --git a/mini-scenes.js b/mini-scenes.js
@@ -368,15 +368,15 @@
     chips: [{ t: "실습 1 · 전자칠판" }, { t: "보내지는 않아요", c: "ghost" }], title: "무엇을 → 어디에 → <em>보내기</em>",
     steps: [
       { t: '더보기 → <span class="k">전자칠판 알림</span>: 맨 위 <span class="q">안내 · 쪽지 · 긴급</span>', s: 0, r: R("board-send", "kinds") },
-      { t: '<b>무엇을</b>: 칠판에 띄울 말, + 링크 · 사진 · 음성 · 예약 · 띄울 시간', s: 0, r: R("board-send", "options") },
-      { t: '<b>어디에</b>: 담임은 <span class="q">「내 반」</span>이 기본, 단추에 <span class="q">「2학년 3반에 띄우기」</span>', s: 0, r: R("board-send", "mine"), z: 1.9 },
-      { t: '학년 전체는 <b>여러 학년 함께</b> 눌러집니다', s: 1, r: R("board-grades", "g2"), z: 1.9 },
-      { t: '<span class="k">직접 고르기</span>: 초록불은 지금 켜진 칠판, 특별실도', s: 2, r: R("board-pick", "grid") },
-      { t: '보낸 뒤 <span class="q">「오늘 칠판에 나간 알림」</span>: 교실마다 상태가 한 단어로(다음 장면)', s: 3, r: R("board-sent", "liveChip"), z: 1.9 }
+      { t: '<b>무엇을</b>: 칠판에 띄울 말, 아래 한 줄에 링크 · 사진 · 음성 · 예약 · 10분', s: 0, r: R("board-send", "options") },
+      { t: '<span class="k">예약</span>: <span class="q">오늘 · 내일</span>과 시각만 고르면 돼요', s: 1, r: R("board-schedule", "day"), z: 1.9 },
+      { t: '<b>어디에</b>: 담임은 <span class="q">「내 반」</span>이 기본, 학년 전체는 <b>여러 학년 함께</b>', s: 2, r: R("board-grades", "g2"), z: 1.9 },
+      { t: '<span class="k">직접 고르기</span>: 초록불은 지금 켜진 칠판, 특별실도', s: 3, r: R("board-pick", "grid") },
+      { t: '보낸 뒤 <span class="q">「오늘 칠판에 나간 알림」</span>: 교실마다 상태가 한 단어로(다음 장면)', s: 4, r: R("board-sent", "liveChip"), z: 1.9 }
     ],
     note: { tone: "warn", html: "<span>오늘은 <b>보내기 단추를 누르지 않습니다</b>. 누르면 실제 교실 칠판에 뜹니다.</span>" },
-    screens: [shot("board-send"), shot("board-grades"), shot("board-pick"), shot("board-sent")],
-    notes: "다 같이 더보기 → <b>전자칠판 알림</b>을 엽니다. 보내기 화면은 <b>무엇을 → 어디에 → 보내기</b> 순서입니다. 담임 선생님은 「내 반」이 기본으로 골라져 있고, 보내기 단추에 「2학년 3반에 띄우기」처럼 어디로 가는지가 적힙니다. 학년 전체는 1·2학년처럼 <b>여러 학년을 함께</b> 고를 수 있고, 「직접 고르기」에서는 초록불로 지금 켜진 칠판이 보입니다(특별실 탭도 있습니다). 예약은 오늘이나 <b>내일</b>까지 — 전날 저녁에 내일 아침 안내를 걸어 둘 수 있습니다. 보낸 뒤에는 아래 「오늘 칠판에 나간 알림」에 교실마다 상태가 한 단어로 보이고(다음 장면에서 하나씩), [종료]로 바로 내릴 수 있습니다. <b>오늘은 보내기 단추를 누르지 않습니다.</b>"
+    screens: [shot("board-send"), shot("board-schedule"), shot("board-grades"), shot("board-pick"), shot("board-sent")],
+    notes: "다 같이 더보기 → <b>전자칠판 알림</b>을 엽니다. 보내기 화면은 <b>무엇을 → 어디에 → 보내기</b> 순서입니다. 담임 선생님은 「내 반」이 기본으로 골라져 있고, 보내기 단추에 「2학년 3반에 띄우기」처럼 어디로 가는지가 적힙니다. 학년 전체는 1·2학년처럼 <b>여러 학년을 함께</b> 고를 수 있고, 「직접 고르기」에서는 초록불로 지금 켜진 칠판이 보입니다(특별실 탭도 있습니다). <b>예약</b>을 누르면 다음 10분 눈금이 미리 채워져 있어 <b>오늘 · 내일</b>과 시각만 고르면 됩니다 — 전날 저녁에 내일 아침 안내를 걸어 둘 수 있고, 마음이 바뀌면 「예약 없이 지금 띄우기」를 누릅니다. 보낸 뒤에는 아래 「오늘 칠판에 나간 알림」에 교실마다 상태가 한 단어로 보이고(다음 장면에서 하나씩), [종료]로 바로 내릴 수 있습니다. <b>오늘은 보내기 단추를 누르지 않습니다.</b>"
   });
 
   // ── 보낸 뒤 교실마다 한 단어(앱 lib/board/status-word.ts의 말과 색) ──
@@ -430,11 +430,11 @@
     id: "kinds", part: 1, num: null, label: "사진·쪽지·긴급·음성", min: 1.5,
     chips: [{ t: "둘러보기" }, { t: "보기만", c: "ghost" }], title: "쪽지는 귀퉁이에, 긴급은 <em>전체 화면</em>으로",
     steps: [
-      { t: '안내에 <span class="k">+ 사진</span>: 칠판에 사진이 크게(학생 얼굴은 피해서)', s: 0, r: R("board-photo", "thumb") },
+      { t: '안내에 <span class="k">사진</span>: 칠판에 사진이 크게(학생 얼굴은 피해서)', s: 0, r: R("board-photo", "thumb") },
       { t: '<span class="k">쪽지</span>: 60자, 칠판 오른쪽 위 노란 쪽지(띵 한 번)', s: 1, r: R("board-memo", "body") },
       { t: '<span class="k">긴급</span>: 지진·화재·전시 대피·외부인 침입·교실 대기 문구', s: 2, r: R("board-alert", "presets") },
       { t: '보내기 전 <b>확인 창</b>: 몇 곳에 뜨는지, 꺼진 칠판은 몇 곳인지', s: 3, r: R("board-alert-confirm", "where"), warn: "긴급은 경보음과 함께 바로 뜹니다" },
-      { t: '<span class="k">+ 음성</span>: 30초까지 녹음, 칠판에서 「띵」 뒤 두 번', s: 4, r: R("board-voice-rec", "status") }
+      { t: '<span class="k">음성</span>: 30초까지 녹음, 칠판에서 「띵」 뒤 두 번', s: 4, r: R("board-voice-rec", "status") }
     ],
     screens: [shot("board-photo"), shot("board-memo"), shot("board-alert"), shot("board-alert-confirm"), shot("board-voice-rec")],
     notes: "종류별로 짧게 봅니다. <b>사진</b>은 칠판에 크게 뜨니 학생 얼굴이 나온 사진은 피해 주세요. <b>쪽지</b>는 60자까지, 수업 화면을 가리지 않고 오른쪽 위에 노란 쪽지로 뜹니다. <b>긴급</b>은 정해 둔 대피 문구로 칠판 전체가 빨간 화면이 되고 경보음이 울립니다 — 보내기 전에 몇 곳에 뜨는지, 꺼진 칠판이 몇 곳인지 확인 창이 한 번 더 묻습니다. 실제 상황이나 훈련 때만 써 주세요. <b>음성</b>은 30초까지 녹음하면 칠판에서 「띵」 뒤 두 번 나옵니다. 교실 스피커가 꺼져 있을 수 있으니 중요한 내용은 글로도 적어 주세요. 목소리 파일은 하루 뒤 지워집니다."
@@ -446,13 +446,13 @@
     menu: "더보기 → 전자칠판 알림 → 글 · 예약 · 어디에",
     say: "2학년 전체 칠판에 내일 아침 8시 20분에 ~ 띄워 줘",
     steps: [
-      { t: '메뉴로는 <span class="k">전자칠판 알림</span>에서 글 · 예약 · 어디에를 고르기', s: 0, r: R("board-send", "where") },
+      { t: '메뉴로는 <span class="k">전자칠판 알림</span>에서 글 · 예약(오늘·내일·시각) · 어디에를 고르기', s: 0, r: R("board-schedule", "day") },
       { t: 'AI에게 <span class="q">「2학년 전체 칠판에 내일 아침 8시 20분에 ~ 띄워 줘」</span>', s: 1, r: R("ai-board", "question") },
       { t: '카드 맨 위에 <b>곳</b>(2학년 전체 10곳), 아래 <b>글 · 시각 · 유지 시간</b>', s: 1, r: R("ai-board", "card") },
       { t: '확인하고 <span class="k">내일 08:20에 예약하기</span> — 누를 때 나가요', s: 1, r: R("ai-board", "button"), z: 1.9 },
       { t: '<span class="q">「2-3반 칠판에 쪽지」</span> <span class="q">「과학실 칠판에 ~」</span>도, 긴급은 한 번 더 물어요', s: 1 }
     ],
-    screens: [shot("board-send"), shot("ai-board")],
+    screens: [shot("board-schedule"), shot("ai-board")],
     notes: "칠판 알림도 AI에게 말로 할 수 있습니다(10월 20일 새로). 아래 탭 AI에서 「2학년 전체 칠판에 내일 아침 8시 20분에 현장체험학습 버스는 8:40에 출발합니다, 늦지 않게! 띄워 줘」라고 하면, 곳(2학년 전체 10곳)·글·시각·유지 시간을 채운 <b>전자칠판 카드</b>가 뜹니다. 확인하고 <b>「내일 08:20에 예약하기」</b>를 눌러야 나갑니다 — 보내기 화면과 똑같이 보내집니다. 「2-3반 칠판에 쪽지」, 「과학실 칠판에 내일 8시 40분에 ~」, 「전교실 긴급 ~」도 됩니다. 곳을 말하지 않으면 AI가 되묻고, 긴급은 누를 때 한 번 더 확인합니다. 고칠 곳이 있으면 AI에게 다시 말하거나 칠판 화면에서 직접 보내 주세요."
   });
 

diff --git a/index.html b/index.html
@@ -142,6 +142,7 @@ main { max-width: 1040px; margin: -26px auto 0; padding: 0 16px 60px; position: 
     <h2><span class="nw">NEW</span> 10월 26~31일에 바뀐 것</h2>
     <ul>
       <li><a href="guide.html#home">홈 오른쪽 남색 <b>바로가기 기둥</b>(10/30) — 처음엔 전자칠판·수업교체·분실물, 맨 아래 톱니로 최대 6개 고르기(그 기기에만 저장)</a>, 카드 머리 글자는 두 글자로(진도·전체·주간·월간)</li>
+      <li><a href="guide.html#p13">전자칠판 보내기(10/31): 글 칸 아래 한 줄에 링크 · 사진 · 음성 · 예약 · 10분, 예약은 「오늘 · 내일」과 시각만(「예약 없이 지금 띄우기」)</a></li>
       <li><a href="guide.html#p7">넵 보낸 탭에는 여러 분께 보낸 것·예약만(한 분께 보낸 넵은 그분 방에)</a>, <a href="guide.html#pc">PC 프로그램 0.3.11(아이콘이 휴대폰과 같은 그림, 보안 고침)</a></li>
       <li><a href="guide.html#home">홈 위쪽이 「빼꼼 · 오늘 학교는」 판(일정·경건회·지도)과 두 칸 「내 수업 · 내 일정」으로</a> — 판 어디를 눌러도 빼꼼, 오른쪽 알약은 공지·교체 수, 홈의 「오늘 알림」 카드는 없어짐</li>
       <li><a href="guide.html#home">저녁 7시부터 홈은 「내일」 화면</a> — 빼꼼 판·두 칸·시간표·급식이 모두 내일 것</li>
